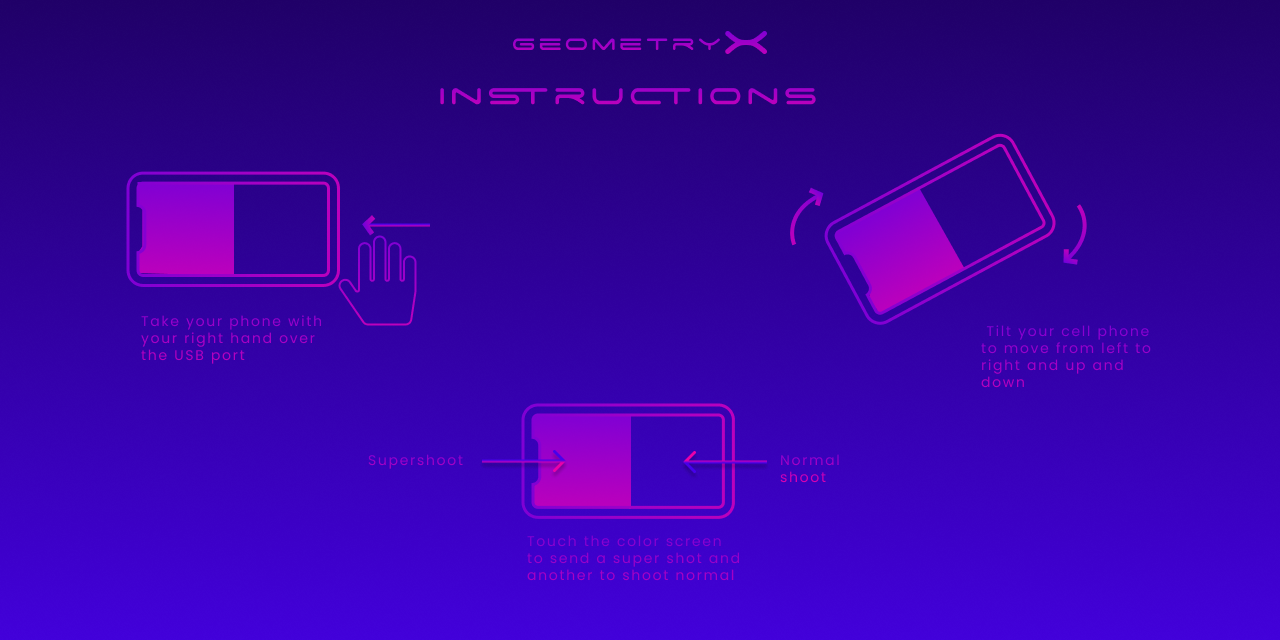
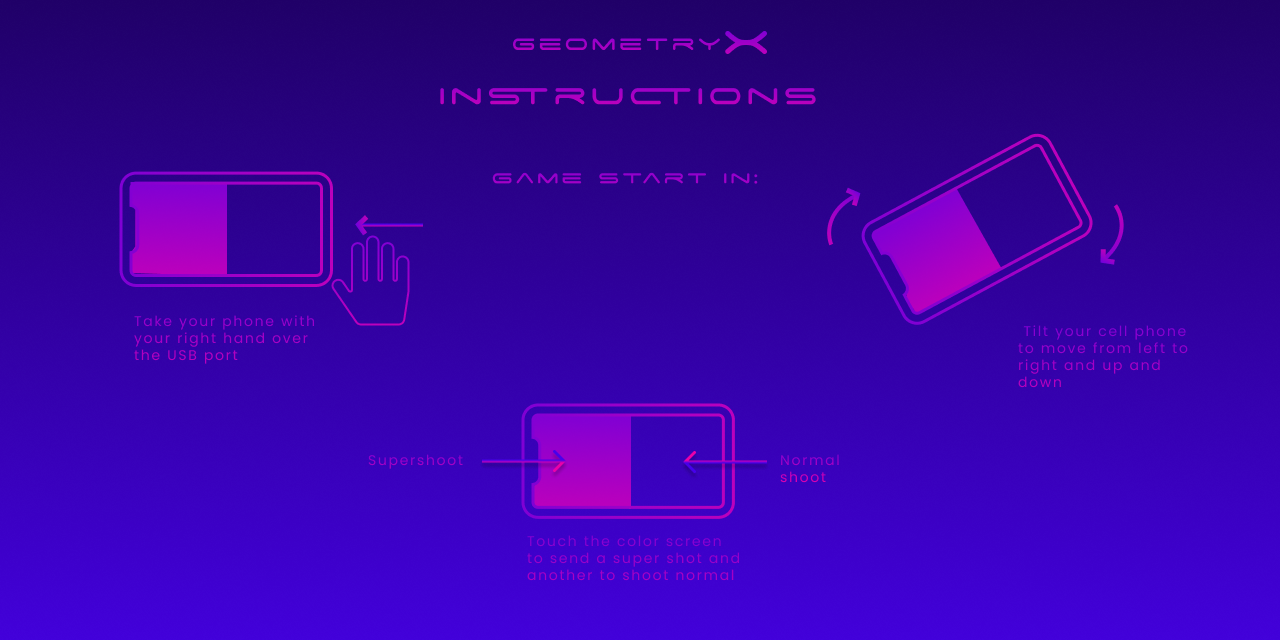
ready for test

diff --git a/src/main/Geometrix.java b/src/main/Geometrix.java
@@ -97,7 +97,7 @@ public class Geometrix extends PApplet {
 			if(connectionJ2) {
 				image(connectJ2,0,0);
 			}
-			if(connectionJ1 /*&& connectionJ2*/) {
+			if(connectionJ1 && connectionJ2) {
 				screen++;	
 			}
 			
@@ -112,11 +112,16 @@ public class Geometrix extends PApplet {
 		case 4://Instructions Screen
 			image(instructionsScreen,0,0);
 			int finishTime = millis();
-			if((finishTime - startTime)>8000) {
-				
+			int seg = 11 - (int) (finishTime - startTime)/1000;
+			textFont(font);
+			fill(158,0,225);
+			text(seg, 594, 235);
+			
+			if((finishTime - startTime)>11000) {
+				controller.SendConfirmation();
+				screen =5;
 			}
 		 
-	
 			 break;
 			 
 			
@@ -162,33 +167,14 @@ public class Geometrix extends PApplet {
 		case 3:
 			
 			screen=5;
-			controller.SendConfirmation();
+			
 			break;
 		}
 		
 	//controller.Impact();
 	}
 	
-	public void mouseMoved() {
-		//System.out.println("entre");
-		switch(screen) {
-		case 0:
-			if(mouseX > 511 && mouseX < 766 && mouseY > 418 && mouseY < 485) {
-				feedStart = true;
-			}else {
-				feedStart = false;
-			}
-			break;
-		case 2:
-			if(mouseX > 510 && mouseX < 769 && mouseY > 502 && mouseY < 570) {
-				feedConnection = true;
-			}else {
-				feedConnection = false;
-			}
-			break;
-		}
-		
-	}
+
 	
 	private void cargarRecursos() {
 		font = createFont("../resources/font/spaceage.ttf",70);		
@@ -202,6 +188,7 @@ public class Geometrix extends PApplet {
 		selectScreen = loadImage("../resources/images/backgrounds/selectionScreen.png");
 		gameScreen =  loadImage("../resources/images/backgrounds/gameScreen.png");
 		instructionsScreen = loadImage("../resources/images/backgrounds/instructionsScreen.png");
+		winScreen = loadImage("../resources/images/backgrounds/winScreen.png");
 
 	}
 	

diff --git a/src/view/spaceship/SpaceShip.java b/src/view/spaceship/SpaceShip.java
@@ -65,6 +65,23 @@ public abstract class SpaceShip {
 	}
 
 	public void drawInSelection() {
+		
+		if (player) {
+			switch (type) {
+			case "tringletrix":
+				app.fill(5,246,246);
+				break;
+			case "cricletrex":
+				app.fill(158,0,255);
+				break;
+			case "diamondrox":
+				app.fill(252,117,57);
+				break;
+			case "squarlux":
+				app.fill(80,252,0);
+				break;
+			}
+		}
 
 		app.image(inSelect, posx, 185);
 		app.text(nickName, posx, 480);
@@ -105,26 +122,48 @@ public abstract class SpaceShip {
 	}
 
 	protected void drawLifeBars() {
-		switch (type) {
-		case "tringletrix":
-			app.fill(5,246,246);
-			break;
-		case "cricletrex":
-			app.fill(158,0,255);
-			break;
-		case "diamondrox":
-			app.fill(252,117,57);
-			break;
-		case "squarlux":
-			app.fill(80,252,0);
-			break;
-		}
+	
 		if (player) {
-
+			switch (type) {
+			case "tringletrix":
+				app.fill(5,246,246);
+				break;
+			case "cricletrex":
+				app.fill(158,0,255);
+				break;
+			case "diamondrox":
+				app.fill(252,117,57);
+				break;
+			case "squarlux":
+				app.fill(80,252,0);
+				break;
+			}
+			if(nextSuper <= 0) {
+				app.ellipse(10, 25, 8, 8);
+			}
+				
 			app.text(nickName, 20, 25);
 			app.rect(20, 40, (float) ((vida * 158) / vidaTotal), 20, 8);
 
 		} else {
+			
+			switch (type) {
+			case "tringletrix":
+				app.fill(5,246,246);
+				break;
+			case "cricletrex":
+				app.fill(158,0,255);
+				break;
+			case "diamondrox":
+				app.fill(252,117,57);
+				break;
+			case "squarlux":
+				app.fill(80,252,0);
+				break;
+			}
+			if(nextSuper <= 0) {
+				app.ellipse(1085, 25, 8, 8);
+			}
 			app.text(nickName, 1250, 20);
 			app.rect(1250 - (float) ((vida * 158) / vidaTotal), 40, (float) ((vida * 158) / vidaTotal), 20, 8);
 		}
